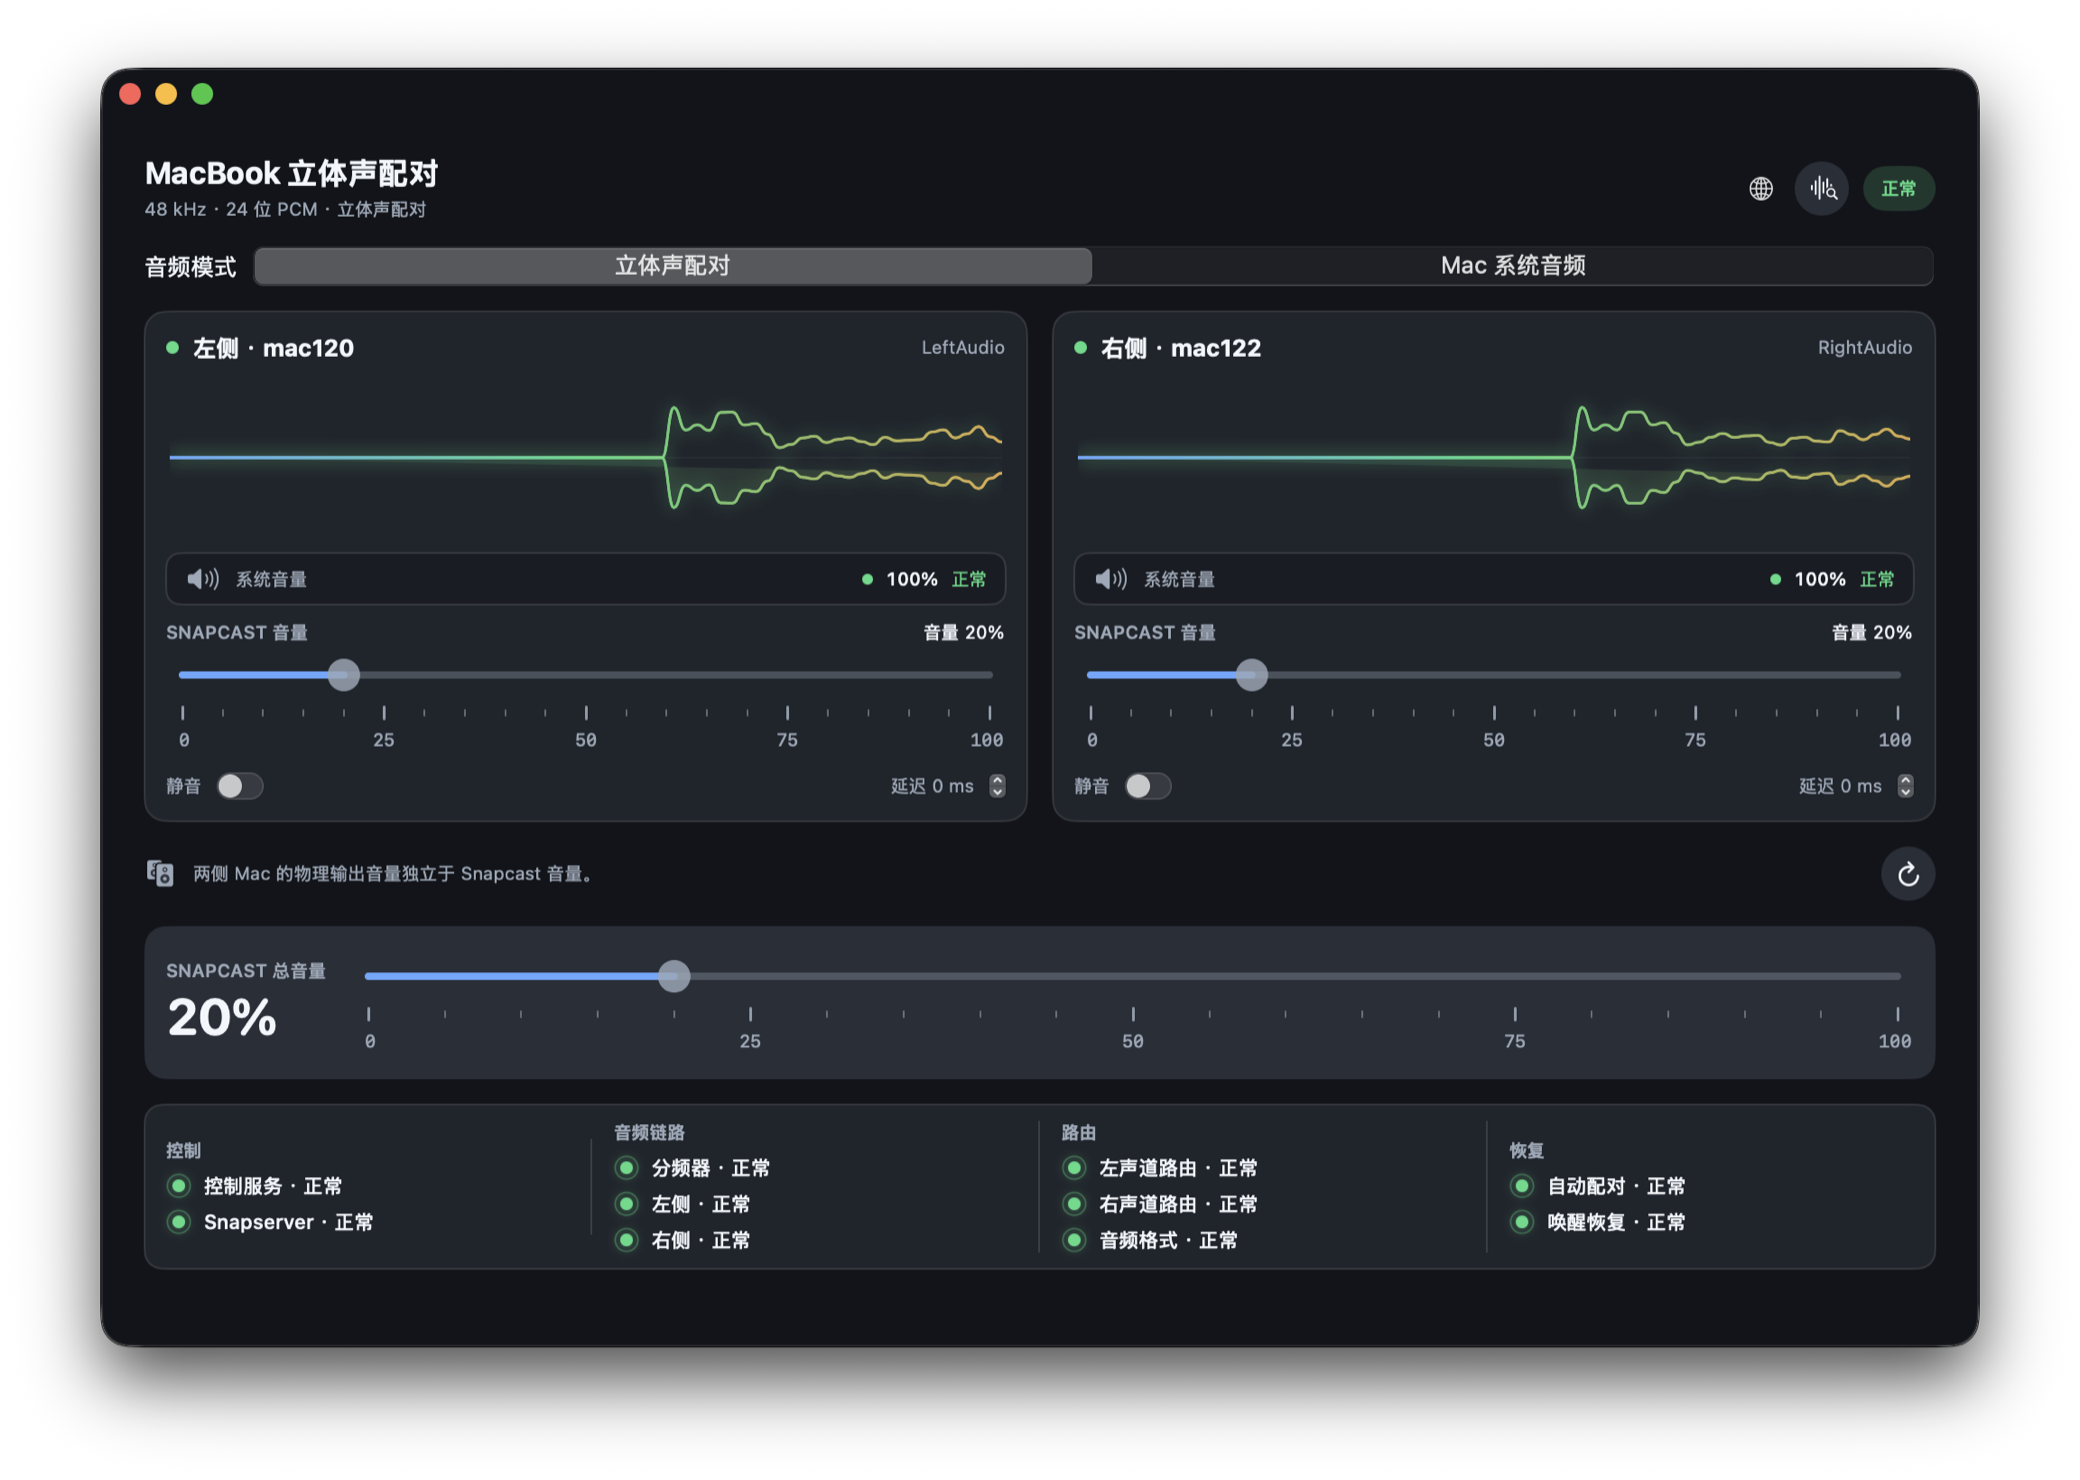
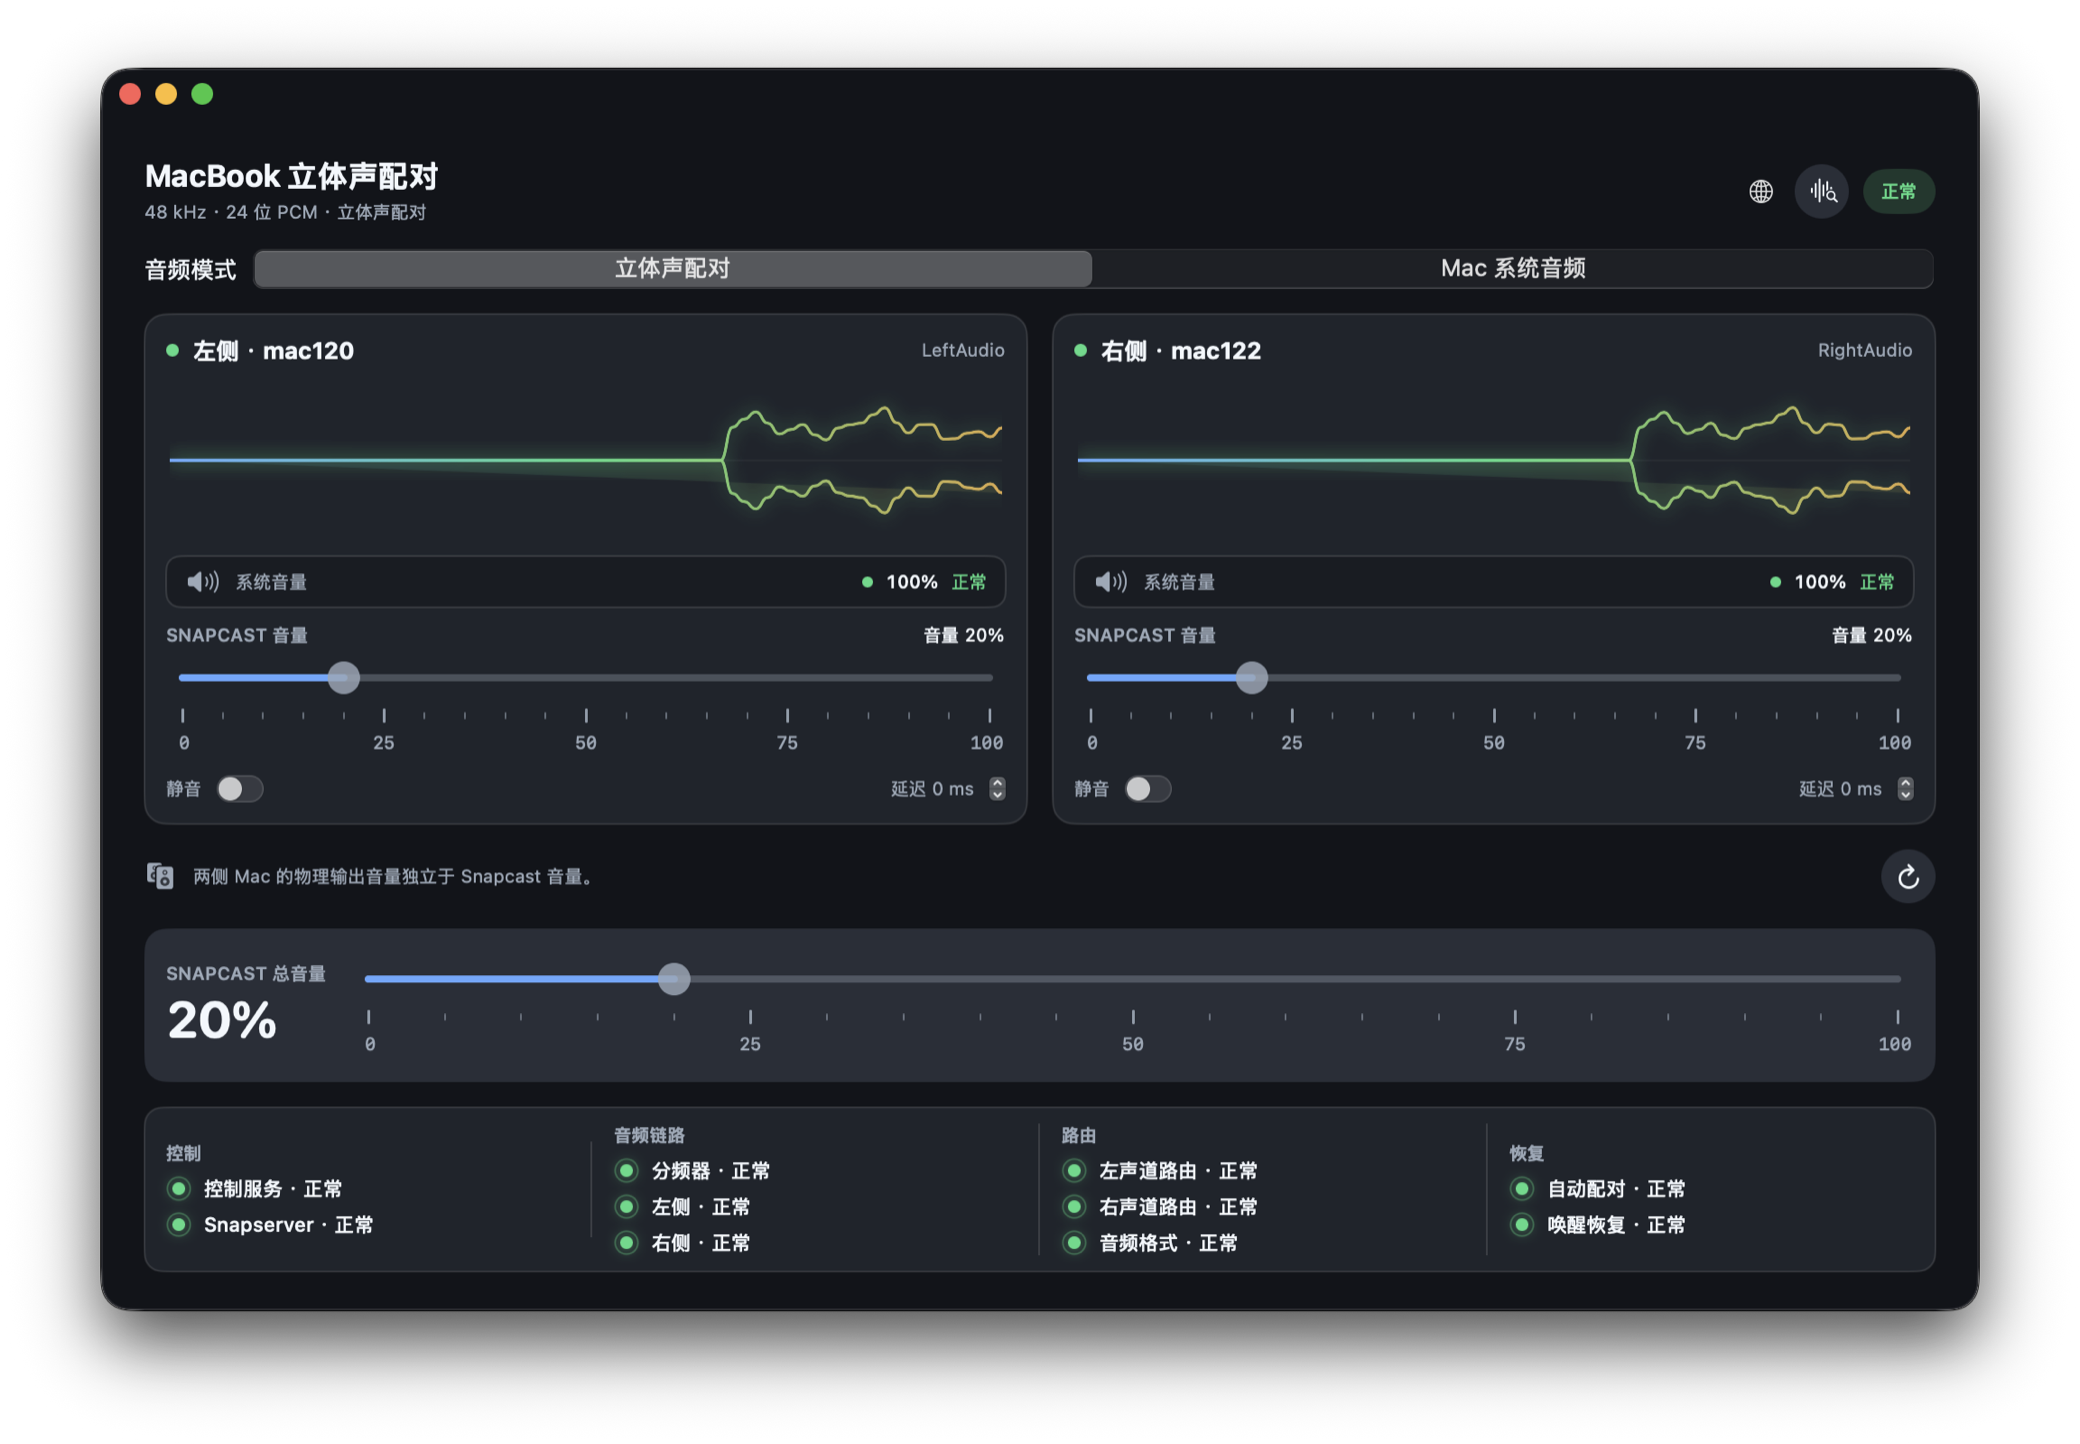
fix: equalize console bottom spacing

diff --git a/native/Tests/MacStereoPairTests/WindowPlacementPolicyTests.swift b/native/Tests/MacStereoPairTests/WindowPlacementPolicyTests.swift
@@ -5,7 +5,7 @@ import XCTest
 final class WindowPlacementPolicyTests: XCTestCase {
     func testConsoleCannotResizeBelowUnclippedViewport() {
         XCTAssertEqual(MainWindowMetrics.minimumSize.width, 1040)
-        XCTAssertEqual(MainWindowMetrics.minimumSize.height, 680)
+        XCTAssertEqual(MainWindowMetrics.minimumSize.height, 660)
     }
 
     func testWindowRequiresCenteringWhenSavedFrameIsOffscreen() {

diff --git a/native/Sources/MacStereoPair/ConsoleView.swift b/native/Sources/MacStereoPair/ConsoleView.swift
@@ -11,7 +11,7 @@ struct ConsoleView: View {
         consoleContent
             .frame(maxWidth: MainWindowMetrics.contentMaxWidth)
             .padding(.horizontal, 24)
-            .padding(.vertical, 20)
+            .padding(.vertical, 24)
             .frame(maxWidth: .infinity, maxHeight: .infinity, alignment: .top)
         .background(Theme.background)
         .foregroundStyle(Theme.text)

diff --git a/native/Sources/MacStereoPair/WindowConfiguration.swift b/native/Sources/MacStereoPair/WindowConfiguration.swift
@@ -2,7 +2,7 @@ import AppKit
 import SwiftUI
 
 enum MainWindowMetrics {
-    static let minimumSize = NSSize(width: 1040, height: 680)
+    static let minimumSize = NSSize(width: 1040, height: 660)
     static let defaultSize = minimumSize
     static let maximumSize = NSSize(width: 1240, height: 860)
     static let contentMaxWidth: CGFloat = 1120

diff --git a/CHANGELOG.md b/CHANGELOG.md
@@ -10,7 +10,7 @@
   physical system-volume indicators for both Macs.
 - Tighten the console dashboard by grouping mute and delay controls, reducing
   secondary card spacing, unifying the system-volume refresh control, improving
-  status legibility, and lowering the no-scroll minimum height to 1040 × 680.
+  status legibility, and lowering the no-scroll minimum height to 1040 × 660.
 - Make Snapcast volume sliders track continuously at pointer resolution while
   serializing throttled audio previews, coalescing click updates, and committing
   the final rounded percentage after release. Periodic status and waveform

diff --git a/docs/native-console.md b/docs/native-console.md
@@ -65,7 +65,7 @@ The main window provides:
   allowlisted service restarts.
 
 The main console does not use a scrolling viewport. Its minimum and default
-content size is 1040 × 680, so every waveform, volume, master, and status card
+content size is 1040 × 660, so every waveform, volume, master, and status card
 remains visible; the maximum size is 1240 × 860. Content is capped at 1120
 points and centered inside larger windows, so cards do not stretch without
 limit. Saved window positions that fall outside the available displays are
